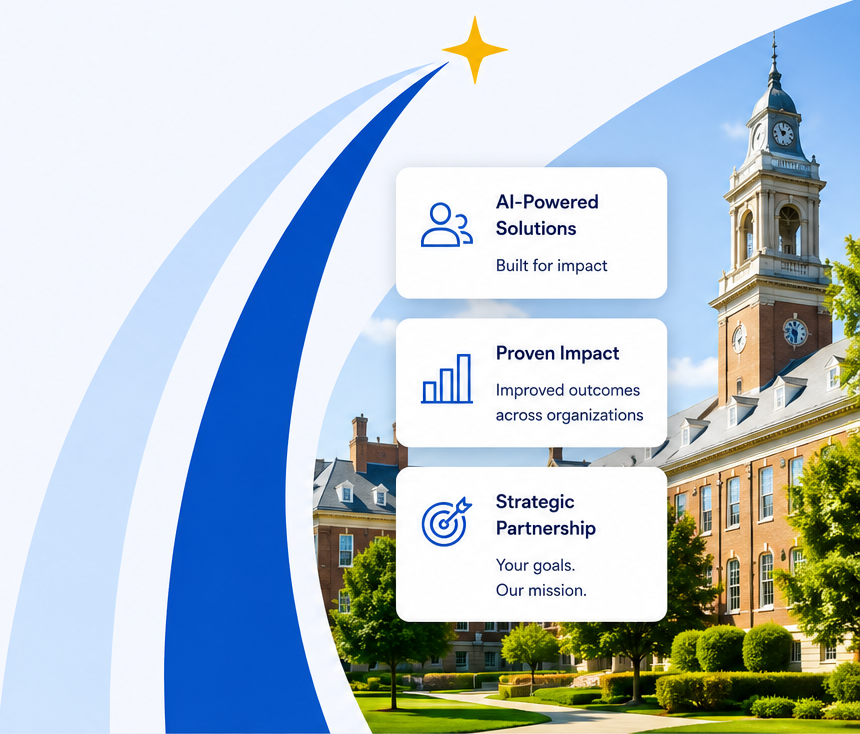
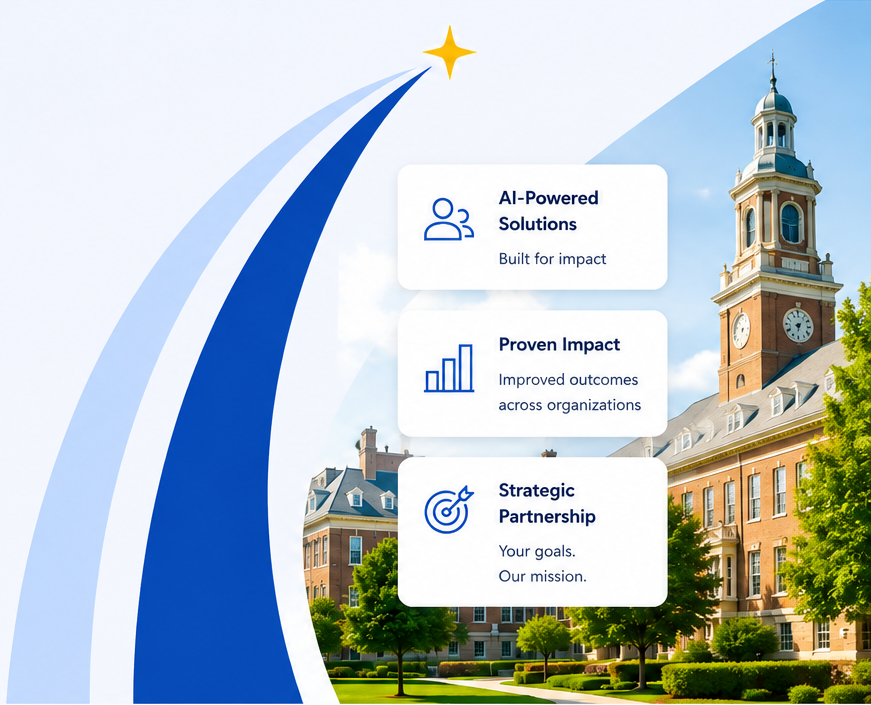
Add files via upload

diff --git a/styles.css b/styles.css
@@ -814,3 +814,81 @@ h2 { font-size: clamp(2.35rem, 4.8vw, 4.8rem); }
   .hero-actions .button { width: 100%; }
   .capability-line { line-height: 2.05; }
 }
+
+
+/* Full-width hero refinement */
+.site-header .shell {
+  width: min(calc(100% - 5rem), 1680px);
+}
+
+.hero .shell {
+  width: 100%;
+  max-width: none;
+}
+
+.hero-layout {
+  min-height: 720px;
+  grid-template-columns: minmax(0, 48%) minmax(0, 52%);
+  gap: 0;
+  align-items: stretch;
+}
+
+.hero-copy {
+  padding: clamp(4.5rem, 6vw, 7rem) clamp(2.5rem, 4.5vw, 5.5rem) clamp(3.5rem, 5vw, 5rem) clamp(3rem, 5vw, 6rem);
+  justify-content: center;
+}
+
+.hero h1 {
+  max-width: 12ch;
+  font-size: clamp(3.7rem, 4.55vw, 5.55rem);
+  line-height: .98;
+}
+
+.hero-lede {
+  max-width: 62ch;
+  font-size: clamp(1.05rem, 1.15vw, 1.22rem);
+  line-height: 1.65;
+}
+
+.hero-visual {
+  width: 100%;
+  min-width: 0;
+  border-left: 1px solid rgba(16, 64, 142, .08);
+}
+
+.hero-visual img {
+  width: 100%;
+  height: 100%;
+  min-height: 720px;
+  object-fit: cover;
+  object-position: center center;
+}
+
+.capability-line {
+  margin-top: 2.9rem;
+}
+
+@media (max-width: 78rem) {
+  .site-header .shell { width: min(calc(100% - 2.5rem), 1280px); }
+  .hero-layout {
+    min-height: 660px;
+    grid-template-columns: minmax(0, 52%) minmax(0, 48%);
+  }
+  .hero-copy {
+    padding-left: clamp(2rem, 4vw, 4rem);
+    padding-right: clamp(2rem, 3.5vw, 3.5rem);
+  }
+  .hero h1 { font-size: clamp(3.35rem, 5vw, 4.8rem); }
+  .hero-visual img { min-height: 660px; }
+}
+
+@media (max-width: 56rem) {
+  .hero .shell { width: 100%; }
+  .hero-layout { grid-template-columns: 1fr; min-height: 0; }
+  .hero-copy {
+    padding: 4.25rem max(1.25rem, 5vw) 3rem;
+  }
+  .hero h1 { max-width: 11.5ch; }
+  .hero-visual { margin: 0; border-left: 0; border-top: 1px solid var(--line); }
+  .hero-visual img { width: 100%; height: auto; min-height: 0; object-fit: contain; }
+}

diff --git a/index.html b/index.html
@@ -49,7 +49,7 @@
         <div class="hero-copy">
           <p class="eyebrow">Operations &amp; Technology Consulting</p>
           <h1 id="hero-title">
-            <span>Better equipped people.</span>
+            <span>Better equipped<br>people.</span>
             <span>Smarter operations.</span>
             <span class="accent">Stronger business.</span>
           </h1>
